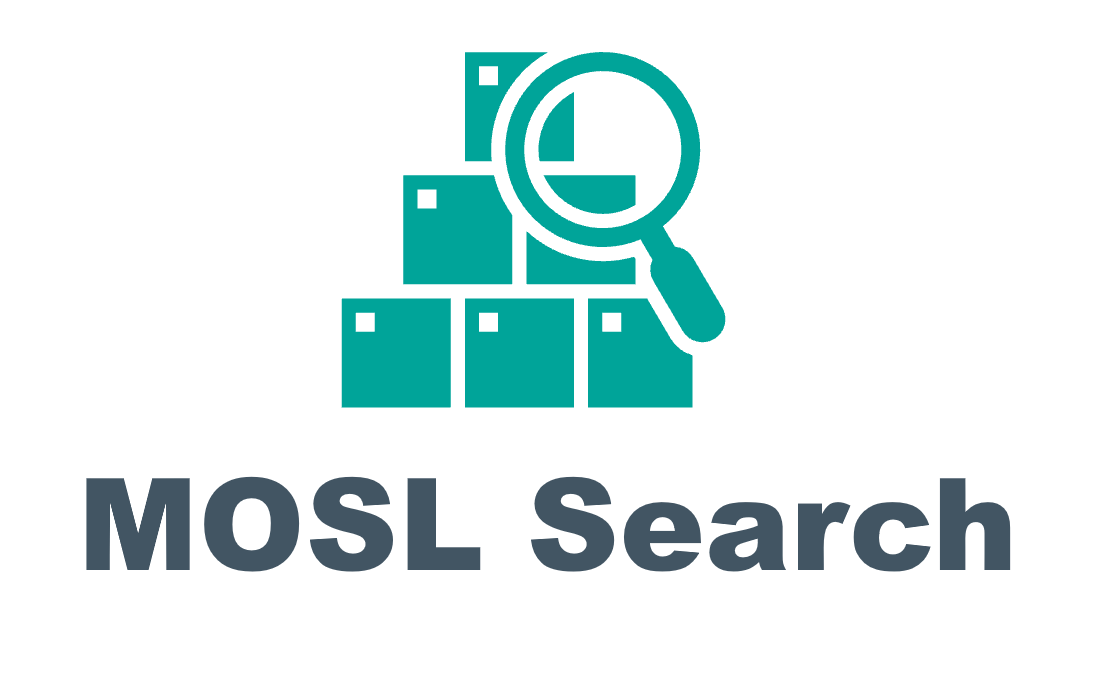
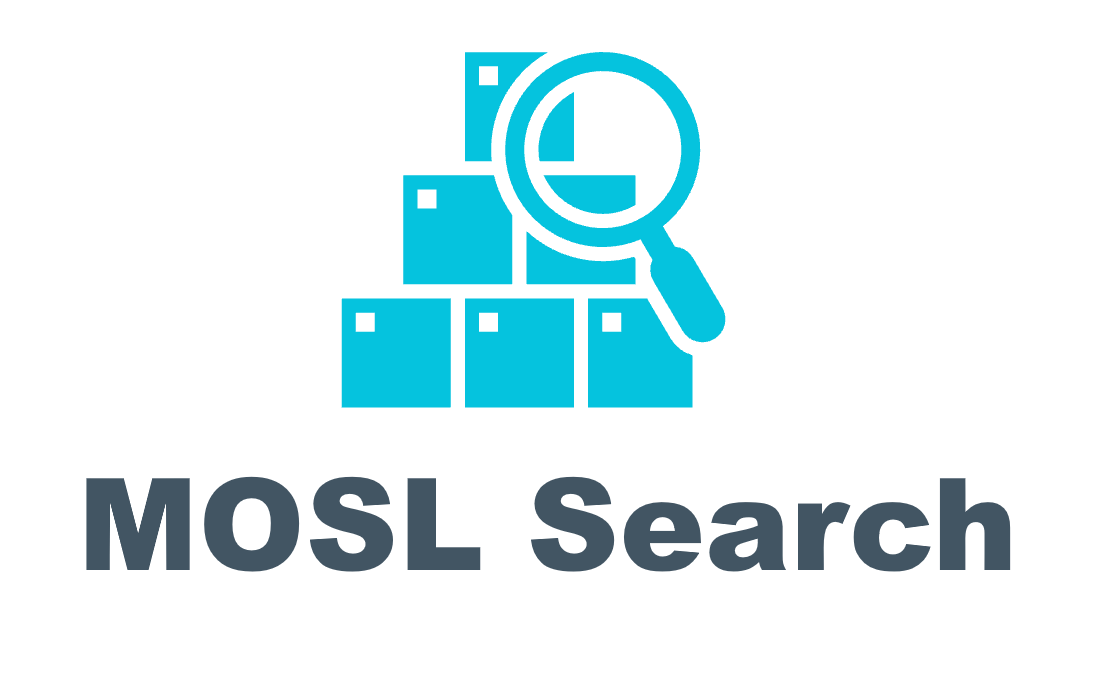
lots of style

Changed region(s): [[0.3071, 0.0617, 0.6757, 0.6167]]

diff --git a/search-website/src/pages/Details/Details.js b/search-website/src/pages/Details/Details.js
@@ -41,15 +41,13 @@ export default function Details() {
       detailsBody = (
         <div className="card-body">
           <h5 className="card-title">{document.metadata_storage_name}</h5>
-          <h6 className="card-text">{document.keyPhrases?.join(' | ')}</h6>
-          <h5 className="card-text">{document.Test3}</h5>
           <p className="card-text">{document.merged_text}</p>
         </div>
       );
     }
 
     // View raw data
-    else {
+    else if (selectedTab === 1) {
       rawStyle += " active";
       detailsBody = (
         <div className="card-body text-left">
@@ -58,6 +56,15 @@ export default function Details() {
           </code></pre>
         </div>
       );
+    }
+    else {
+      phrasesStyle += " active";
+      detailsBody = (
+        <div className="card-body">
+          <h5 className="card-title">Key Phrases</h5>
+          <p className="card-text keyPhrases">{document.keyPhrases?.join(' | ')}</p>          
+        </div>
+      )
     }
   }
 
@@ -68,6 +75,7 @@ export default function Details() {
           <ul className="nav nav-tabs card-header-tabs">
               <li className="nav-item"><button className={resultStyle} onClick={() => setTab(0)}>Result</button></li>
               <li className="nav-item"><button className={rawStyle} onClick={() => setTab(1)}>Raw Data</button></li>
+              <li className="nav-item"><button className={phrasesStyle} onClick={() => setTab(2)}>Raw Data</button></li>
           </ul>
         </div>
         {detailsBody}

diff --git a/search-website/src/pages/Home/Home.js b/search-website/src/pages/Home/Home.js
@@ -18,8 +18,7 @@ export default function Home() {
   return (
     <main className="main main--home">
       <div className="row home-search">
-        <img className="logo" src="/images/mosl-search.png" alt="Cognitive Search"></img>
-        <p className="poweredby lead">Powered by Azure Cognitive Search</p>
+        <img className="logo" src="/images/mosl-search2.png" alt="Cognitive Search"></img>
         <SearchBar postSearchHandler={navigateToSearchPage}></SearchBar>
       </div>
     </main>

diff --git a/search-website/src/components/Results/Result/Result.js b/search-website/src/components/Results/Result/Result.js
@@ -17,8 +17,6 @@ export default function Result(props) {
             <h6>Search Score: {props.score.toLocaleString()}</h6>
             <h6>Search highlights:</h6>
             <p className="highlights" dangerouslySetInnerHTML={{__html: props.highlights.merged_text}}/>
-            <h6>Document key phrases:</h6>
-            <p className="keyPhrases">{props.document.keyPhrases?.join(' | ')}</p>
         </div>
     </div>
     );

diff --git a/search-website/src/pages/Details/Details.css b/search-website/src/pages/Details/Details.css
@@ -1,8 +1,15 @@
 .main--details {
     padding-top: 2em;
+    justify-content: center;
 };
 
 .image {
     width: 10em;
     height: auto;
+}
+
+.keyPhrases {
+    vertical-align: middle;
+    text-align: justify;
+    color: darkgrey;
 }

diff --git a/search-website/src/components/SearchBar/SearchBar.css b/search-website/src/components/SearchBar/SearchBar.css
@@ -19,7 +19,7 @@ div.container a.input-group-btn {
     border-color: #00A499;
 }
 
-.btn-primary a:hover{
+.btn-primary:hover{
     color: #fff;
     background-color: #17a2b8;
     border-color: #17a2b8;

diff --git a/search-website/src/components/Results/Result/Result.css b/search-website/src/components/Results/Result/Result.css
@@ -19,11 +19,6 @@
     text-align: justify;
 }
 
-.keyPhrases {
-    vertical-align: middle;
-    text-align: justify;
-    color: darkgrey;
-}
 .card-img-top {
     width: auto;
     min-width: 6em;

diff --git a/search-website/src/pages/Home/Home.css b/search-website/src/pages/Home/Home.css
@@ -21,7 +21,7 @@
     border-color: #00A499;
 }
 
-.btn-primary a:hover{
+.btn-primary:hover{
     color: #fff;
     background-color: #17a2b8;
     border-color: #17a2b8;
